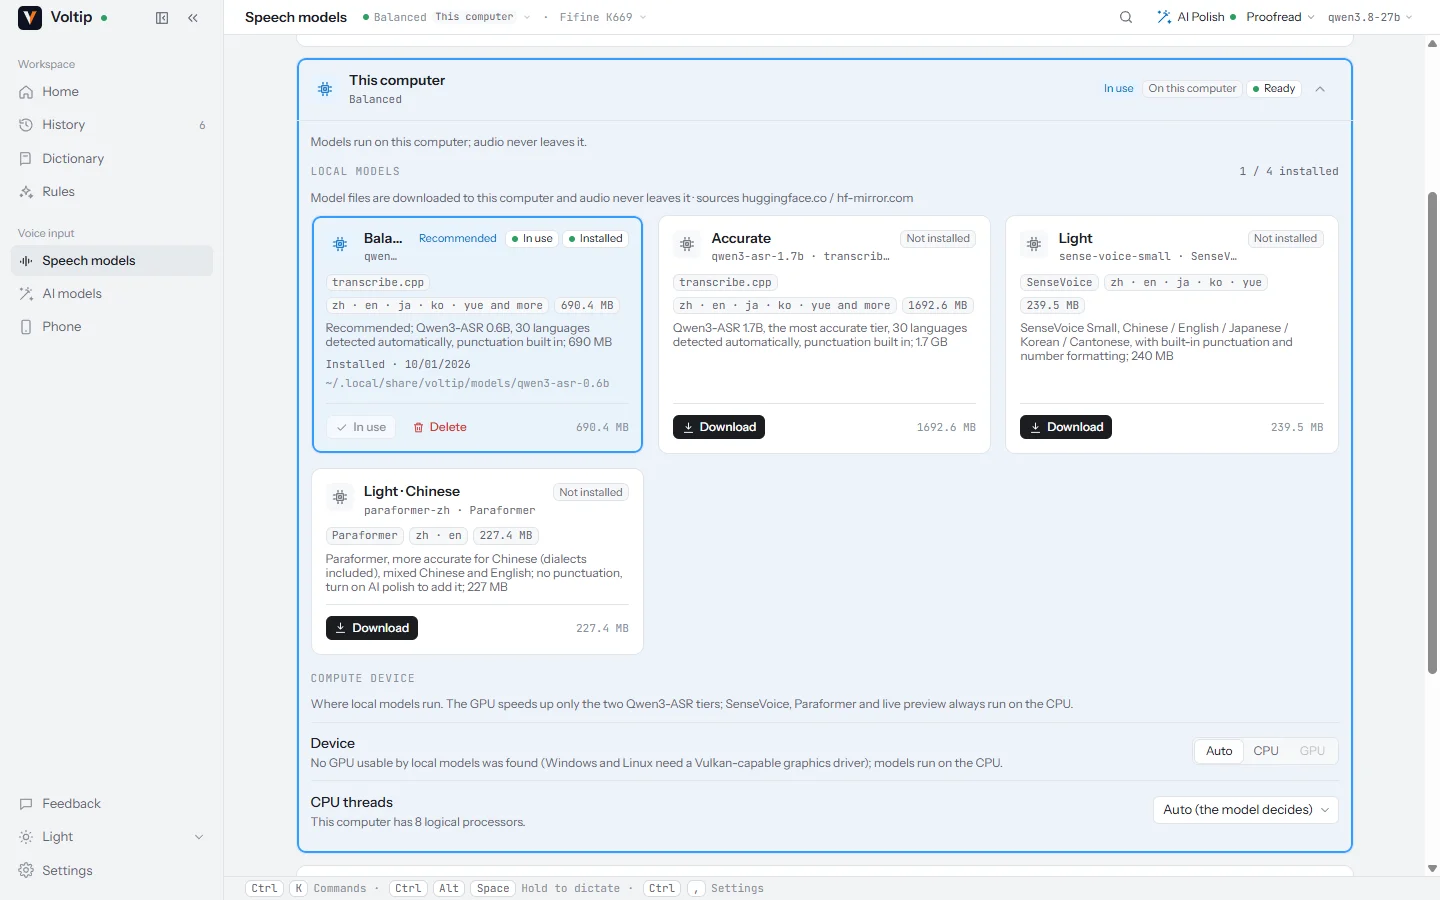
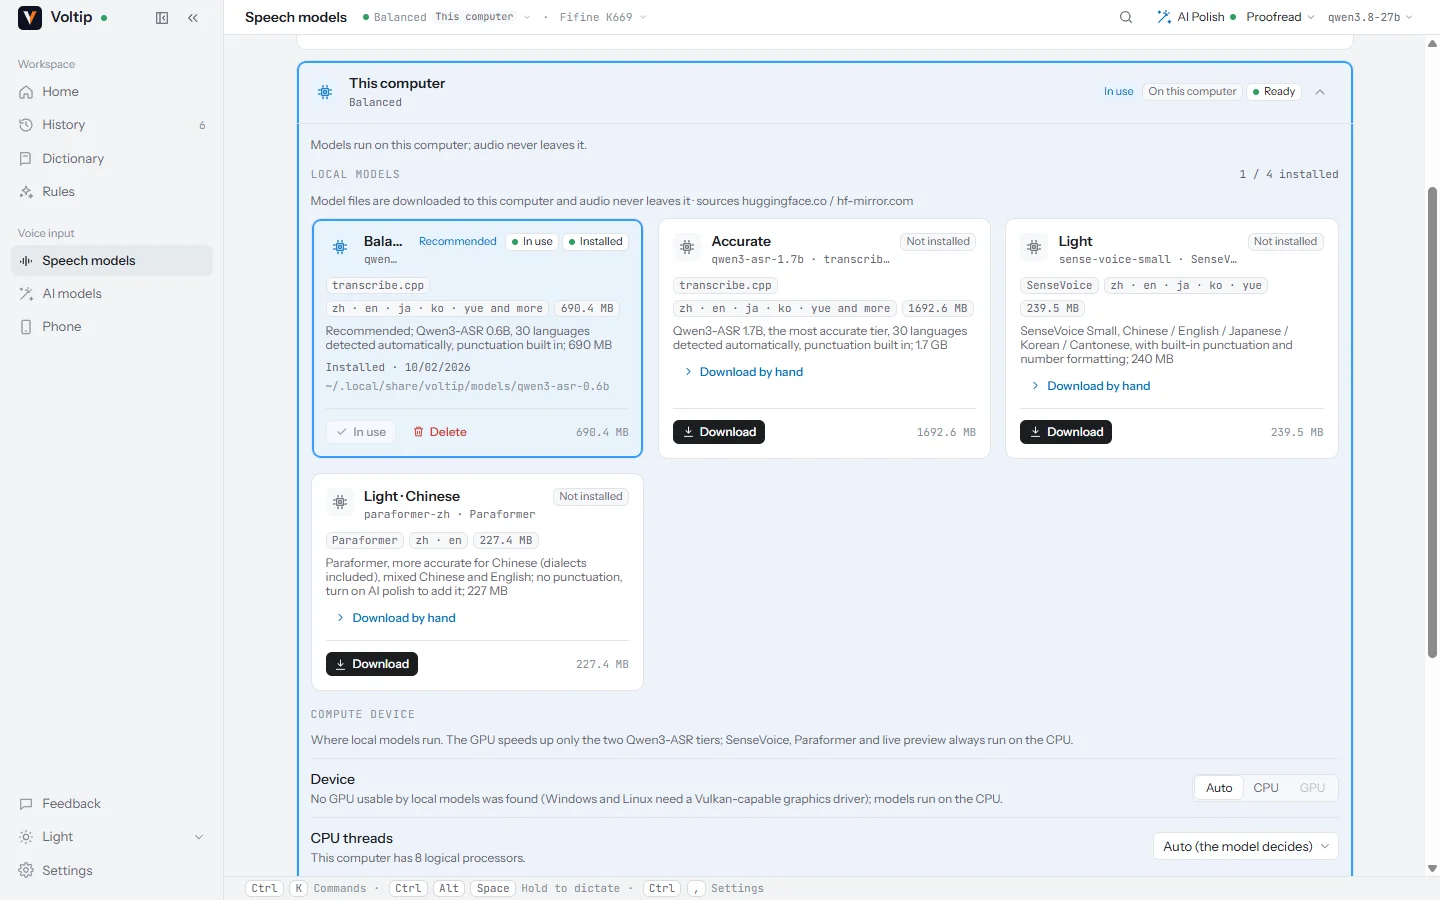
docs(voltip): sync from voltip@5d48f8f
Source: https://github.com/sunerpy/voltip/commit/5d48f8f7dbbd1b61374f0dd8f028f289941afde1

diff --git a/voltip/src/zh/dev/dictation.md b/voltip/src/zh/dev/dictation.md
@@ -423,6 +423,16 @@ pub enum ModelInstallState {
 - **本地实现**：`LocalTranscriber::warm_up` 在独立线程 `voltip-asr-warm` 上把选中的模型按当前语言与运行设备（§10.6）加载进共享缓存，和录音用的是同一个槽，所以录音直接复用。模型未安装、或同一模型已按同样的语言和设备在内存里时什么都不做；正在进行的录音占着识别器时线程等它结束；等待期间又来了新的预热（例如连续改了两次设置），旧的让位，只加载最新的。换模型时先释放旧的，内存里始终只有一个整段识别模型。失败只记 warn：下一次录音会再加载并照常报错。
 - 实时预览的流式模型另有自己的预热（§11，`StreamingTranscriber::warm`），规则不变。
 
+### 10.8 手动下载与导入（2026-10-02 用户要求）
+
+应用无法直接下载模型的网络（受限网络、只能在另一台设备上下载）里，模型卡片给出手动下载的方式：
+
+- **卡片上的信息**（`ModelState`）：`dir` 是这个模型的目录 `<models root>/<id>`，手动下载的文件放在这里；`files` 按目录顺序列出每个文件的名称、大小和下载地址 `urls`。地址只有 huggingface.co 与 hf-mirror.com 两个公开源（`ModelStore::public_urls`，即 `Source::HfResolve`），顺序与应用下载时相同；构建时配置的镜像（`VOLTIP_MODEL_BASE_URL`，`Source::Base`）是界面不显示的主机，不列出。旧版核心不带这两个字段时取空值，卡片不显示手动下载。
+- **打开**：`model_folder_open { id }` 在文件管理器里打开这个目录，目录不存在时先创建；`model_link_open { id, file, source }` 在浏览器里打开 `files[file].urls[source]`。两条命令都由壳从核心的目录（`Bridge::model_folder` / `Bridge::model_link`，读缓存的 `UiState.models`）取路径和地址，webview 只指明模型、文件和第几个源，从不传路径或网址。手机没有本地模型，两条命令都拒绝。
+- **导入**：`model_import { id }`（`CoreCommand::ModelImport`）在后台任务里逐个检查目录中的文件：没有、或大小不是目录里的大小，记为缺少；大小对但 sha256 不对，记为校验不通过。全部正确时像下载一样写入 `manifest.json`，模型变为 `installed`，需要时一并安装辅助模型（§12，失败不影响模型）。否则状态为 `import_incomplete { missing, mismatched }`，卡片列出这些文件名；重新扫描时保留，直到再次导入、下载或删除。导入期间状态为 `verifying`，与下载一样不能同时开始别的操作。
+- **下载不再信任已有文件**：此前文件只有在校验通过后才会改成正式文件名，所以下载时看到正式文件名、大小也对，就当作已校验。手动放入的文件打破了这个前提：大小对、内容错的文件会被写进清单。现在下载未安装的模型时，已有的正式文件也先算 sha256，不对就删除重下（`regression_a_file_put_under_its_final_name_is_checked_before_the_download_trusts_it`）；已安装的模型（清单完整）再次下载什么都不做，不下载也不计算哈希。
+- **界面**：每张未安装的模型卡片（设置里的本地模型、实时预览、首次使用的引导页）有「手动下载」展开区：文件夹路径（复制、打开文件夹）、每个文件的大小和两个地址（点击在浏览器中打开；旁边的按钮复制地址，供能访问下载源的其他设备使用），以及「检查并导入」。上次导入未完成时，展开区默认打开，并列出缺少和校验不通过的文件。
+
 ## 11. 流式识别（边说边出字，2026-09-25 契约）
 
 **目标**：按住热键说话时，胶囊实时显示识别中的文字（部分结果），松开后仍走完整流水线（整段音频 → 最终识别 → 润色 → 注入 → 历史）。流式只改变**听写过程中的显示**，不改变最终文本的来源：最终文本以整段识别为准（本地 SenseVoice / Paraformer 或云端），流式只是预览。这样流式引擎不可用时行为与今天完全一致。

diff --git a/voltip/src/recognition/local.md b/voltip/src/recognition/local.md
@@ -33,6 +33,16 @@ When **Silence trimming** is on, a 1.8 MB silence detection model is downloaded 
 
 The models are stored in the `models` folder of Voltip's data folder ([where that is](/guide/updates#where-your-data-is-kept)). Deleting a model on the Speech models page removes its files.
 
+### Downloading by hand
+
+When the app cannot download a model, for example on a network where only another device can reach the sources, download it by hand:
+
+1. On the model's card, choose **Download by hand** to see the model's folder and the files it needs.
+2. Open each file's address (Hugging Face or hf-mirror.com) in a browser, or copy it to download the file on another device, and save the file into the folder the card shows, under the same name. **Open folder** opens that folder, and **Copy path** copies its location.
+3. Once every file is there, choose **Check and import**. Voltip checks each file's size and SHA-256. When they are all right, the model is ready to use; otherwise the card lists the files that are missing or wrong.
+
+When the app downloads a model itself, it checks the files already in the folder first and downloads again any that are wrong.
+
 ## CPU or GPU
 
 Under **This computer**, **Run on** offers:
